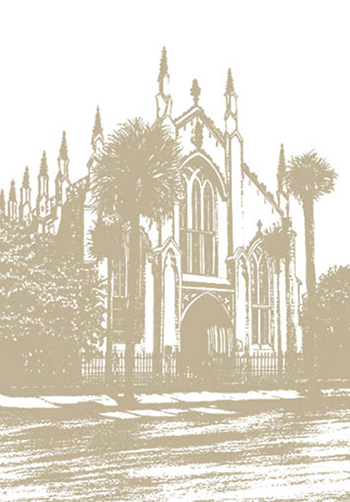
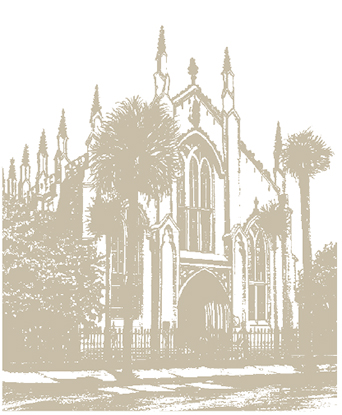
itinerary fixes

diff --git a/pages/wedding-itinerary.html b/pages/wedding-itinerary.html
@@ -27,8 +27,8 @@
 		  	</header>
 		</div>  	
 		<div class="row main-row">
-			<div class="itinerary-left-col large-4 large-offset-1 small-12 columns">
-				<img src="../images/church-higher.jpg">
+			<div class="itinerary-left-col large-5 small-12 columns">
+				<img src="../images/heugonot.jpg">
 			</div>
 			<div class="itinerary-right-col large-7 small-12 columns">
 				<div class="row">
@@ -71,14 +71,13 @@
 					</div>
 					<div class="large-4 columns small-12" id="dinner-dancing">
 						<h4>dinner & dancing</h4>
-						<p class="special-directions">Immediately following the ceremony until 10:30pm</p>
+						<p class="special-directions">Immediately following the ceremony until 10:30 p.m.</p>
 						<p class="place-time">Lowndes Grove Plantation</p>
 						<p class="place-time">266 Saint Margaret Street</p>
 					</div>
 				</div>
 				<div class="row day-section">
-					<p class="special-directions">Wedding transportation will be provided from select downtown hotels to/from the wedding 
-ceremony and reception. More information will be provided upon check-in to your hotel.</p>
+					<p class="special-directions">Wedding transportation will be provided from select downtown hotels to the wedding ceremony and onto the reception. Return transportation will occur throughout the night.  More information will be given upon check-in to your hotel.</p>
 				</div>
 				<div class="row">
 					<h3>sunday, March 6th</h3>

diff --git a/stylesheets/app.css b/stylesheets/app.css
@@ -6410,7 +6410,8 @@ th.hide-for-touch {
     font-size: 13px;
     font-style: italic;
     line-height: 1.4;
-    color: #b5985a; }
+    color: #b5985a;
+    margin-bottom: 1px; }
   .itinerary-right-col .place-time {
     font-family: "Baskerville";
     font-style: normal;

diff --git a/scss/_itinerary.scss b/scss/_itinerary.scss
@@ -60,6 +60,7 @@
 		font-style: italic;
 		line-height: 1.4;
 		color: rgb(181, 152, 90);
+		margin-bottom: 1px;
 	}
 	
 	.place-time {
